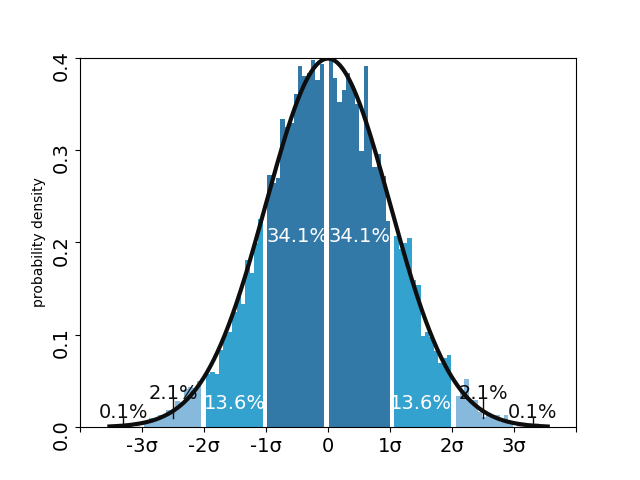
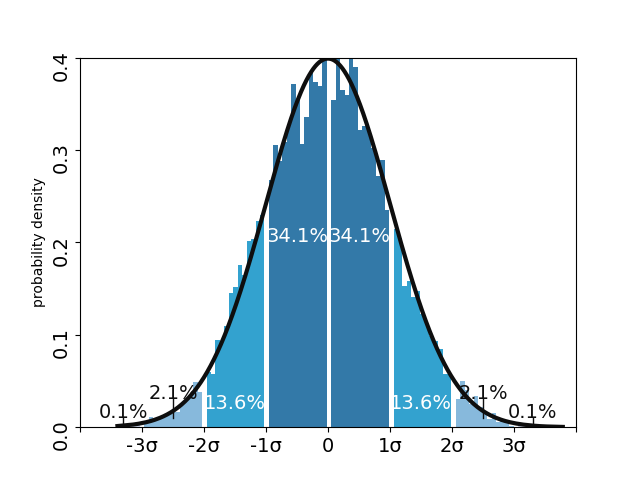
standardizing

diff --git a/graphic/plot.py b/graphic/plot.py
@@ -25,15 +25,12 @@ class Plot(DoStats):
         verts = [(a, 0)] + list(zip(ix, iy)) + [(b, 0)]
         poly = Polygon(verts, facecolor=facecolor, edgecolor='0.5')
         ax.add_patch(poly)
-    def getXyData(self,isPlot=True,ax=None,c=None,**kwargs):
+    def getXyData(self,ax=None,**kwargs):
         x,y = self.getProbabilityDensity(**kwargs)
         if self.ax is None:
             if ax is None:
                 fig, ax = plt.subplots()
             self.ax=ax
-        c=c if c else self.black
-        # plt.fill_between(x,y[0],y[-1],interpolate=False,facecolor=c)
-        # self.this_function_name = inspect.currentframe().f_code.co_name
         return plt,self.ax,x,y
     def plotGroupedBar(
         self,
@@ -97,19 +94,21 @@ class Plot(DoStats):
             x = self.list
         plt.bar(x, height)
         self.show()
-    def plotND(self,x,y=None,yLable=None,mean=None, bars=100,l=None,labels=None,density=False,format_fn=None,annotation=None,callback=None):
+    def getFigAx(self):
+        return plt.subplots()
+    def plotND(self,x=None,y=None,yLable=None,mean=None, bars=100,l=None,labels=None,density=False,format_fn=None,annotation=None,callback=None):
         if l is None:
             l = self.list
         if isinstance(l, set):
             l = list(l)
         if len(np.array(l).shape) == 1:
             l = [l]
-        fig, ax = plt.subplots()
+        fig, ax = self.getFigAx()
         self.drawGridLines(ax,x,y,density)
         n, bins, rects=self.plotHist(ax,l,bars,labels,y,density=density)
         self.setAxes(ax,x,y,yLable,format_fn,plt)
         self.plotLines(ax, mean, y, density)
-        if annotation is None:
+        if annotation is None and y:
             annotation = [{
                 'txt': 'Average = {0}'.format(mean),
                 'position': (mean, y[1] + 10),
@@ -266,6 +265,8 @@ class Plot(DoStats):
         self.drawArrow(ax,[x1, x2], [y1, y2])
         self.drawTxt(ax,position,txt)
     def drawTxt(self, ax, annotation,center=False):
+        if annotation is None:
+            return
         for anno in annotation:
             d={'hasLine':False,**anno}
             hasLine,position, txt,color=d.values()

diff --git a/test/test_fun_nd.py b/test/test_fun_nd.py
@@ -7,24 +7,36 @@ SCRIPT_DIR = os.path.dirname(os.path.realpath(
 sys.path.append(os.path.normpath(os.path.join(SCRIPT_DIR, PACKAGE_PARENT)))
 import unittest,numpy as np
 from graphic.plot import Plot
-from do_statistics.doStats import DoStats
 from mysql_data.decorators_func import singleton
 class TDD_TEST_FUN_ND(unittest.TestCase):
+    @singleton
+    def setUp(self):
+        self.__class__.d=Plot()
     def test_test_fun_nd(self):
-        d=DoStats()
-        nd=d.getND(0,1)
+        nd=self.d.getND(0,1)
         larger=filter(lambda item:item>0,nd)
         smaller=filter(lambda item:item<0,nd)
         self.assertAlmostEqual(len(list(larger)),len(list(smaller)),-3)
-        mean,sd=d.getMeanSdByRange([1.1,1.7],.95)
+        mean,sd=self.d.getMeanSdByRange([1.1,1.7],.95)
         self.assertEqual(mean,1.4)
         self.assertAlmostEqual(sd,.15,2)
-        name=d.getSdName()
+        name=self.d.getSdName()
         self.assertTrue( "z-score" in name)
-        count,differ=d.standardizing(1.85,mean,sd)
+        count,differ=self.d.standardizing(1.85,mean,sd)
         self.assertAlmostEqual(count,3)
         self.assertAlmostEqual(differ,.45)
+    def test_plot(self):
+        l=26, 33, 65, 28, 34, 55, 25, 44, 50, 36, 26, 37, 43, 62, 35, 38, 45, 32, 28, 34
+        sortedX = np.array(sorted(l))
+        plt,ax,x,y=self.d.getXyData(x=sortedX)
+        ax1 = plt.subplot(211)
+        ax1.plot(x, y, '-', c=self.d.black, linewidth=3)
+        ax1.set_title('Standardizing')
+        ax2 = plt.subplot(212)
+        ax2.plot(sortedX, y, '-', c=self.d.black, linewidth=3)
+        ax2.set_title('Not standardizing')
+        plt.tight_layout()
+    def test_save(self):
+        self.d.saveAndShow()
 if __name__ == '__main__':
     unittest.main()
-
-                

diff --git a/test/test_graphic_tech.py b/test/test_graphic_tech.py
@@ -41,7 +41,8 @@ class TDD_GRAPHIC_TECH(unittest.TestCase):
         colors = ['#005792', '#008BC4', '#69A8D4', '#BCC8E4']
         allCol=list(reversed(colors))+colors
         for i in range(8):
-            self.d.drawFunction(x=self.x[i*1000:i*1000+1000], σ=sigma, μ=mu,isPlot=False,c=allCol[i])
+            plt,ax,x,y=self.d.getXyData(x=self.x[i*1000:i*1000+1000], σ=sigma, μ=mu)
+            plt.fill_between(x,y[0],y[-1],interpolate=False,facecolor=allCol[i])
     def test_graphic_tech(self):
         yLable = 'probability density'
         def format_fn(tick_val, tick_pos):
@@ -51,12 +52,12 @@ class TDD_GRAPHIC_TECH(unittest.TestCase):
                 return ''
             else:
                 return '{0}σ'.format(int(tick_val))
-        x = [-4, 4]
-        y = [0, .4]
+        axisX = [-4, 4]
+        axisY = [0, .4]
         plt=self.d.getPlt()
-        plt.xlim(x[0], x[1])
-        plt.ylim(y[0], y[1])
-        # self.d.setAxes(self.ax,axisX,axisY,yLable,format_fn,plt=self.plt)
+        plt.xlim(axisX[0], axisX[1])
+        plt.ylim(axisY[0], axisY[1])
+        # self.d.setAxes(ax,axisX,axisY,yLable,format_fn,plt=plt)
     def test_show(self):
         self.d.saveAndShow()
 if __name__ == '__main__':

diff --git a/do_statistics/doStats.py b/do_statistics/doStats.py
@@ -24,9 +24,12 @@ class DoStats(object):
         x = np.random.normal(loc=mean, scale=SD, size=size)
         return x
     # μ is the expected value of the random variables, σ equals their distribution's standard deviation divided by n**(1/2), and n is the number of random variables
-    def getProbabilityDensity(self,σ,x,μ):
+    def getProbabilityDensity(self,x,σ=None,μ=None):
+        if μ is None:
+            μ=self.getMean(x)
+        if σ is None:
+            σ = self.getPSD(x)
         zScore,differ=self.standardizing(x,self.getMean(μ),σ)
-        # zScore=x
         μ=0
         y=((1 / (np.sqrt(2 * np.pi) * σ)) *
                 np.exp(-0.5 * (1 / σ * (zScore - μ))**2))
@@ -48,7 +51,7 @@ class DoStats(object):
         # return sum(self['speed'])/len(self['speed'])
         if l is None:
             l = self.list
-        if isinstance(l,int):
+        if isinstance(l,(int,float)):
             return l
         if isinstance(l, set):
             l=list(l)
